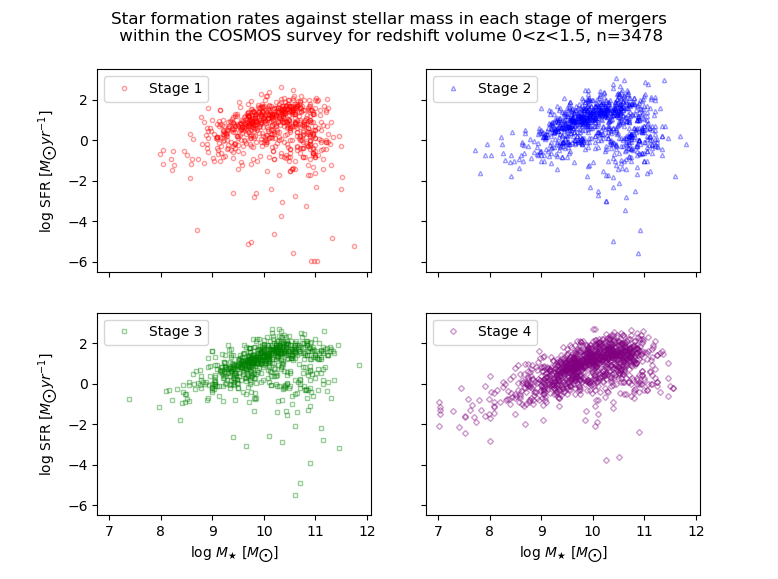
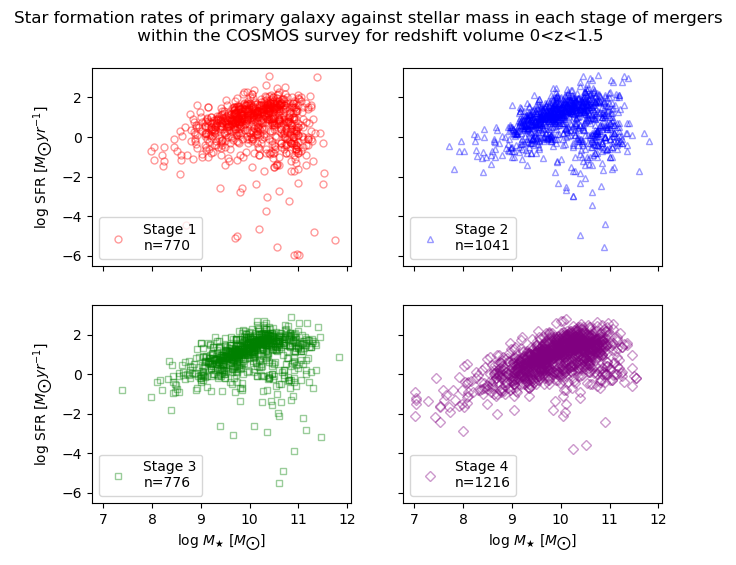
Finalised combined sfr mass plots

diff --git a/plots/plotting_code/main_plots/sfr_mass.py b/plots/plotting_code/main_plots/sfr_mass.py
@@ -50,9 +50,11 @@ def data_gather():
 def generate_plot(data, n):
 
     colours = ['red', 'blue', 'green', 'purple']
+    symbols = ['o', '^', 's', 'D']
+
 
     for j in range(0, 4):
-        plt.errorbar(data[j][0], data[j][1], xerr=data[j][2], yerr=data[j][3], fmt='o', c=colours[j], markersize=1, ecolor='black', elinewidth=1, label=f'Stage {j+1}')
+        plt.errorbar(data[j][0], data[j][1], fmt=symbols[j], c=colours[j], alpha=0.4, fillstyle='none', markersize=5, ecolor='black', elinewidth=1, label=f'Stage {j+1}')
         # plt.scatter(mass_med, sfr_med, s=5, c=colours[j], label=f'Stage {j+1}')
     
     plt.title('Star formation rates in each stage of mergers within the COSMOS survey')
@@ -66,35 +68,35 @@ def generate_plot_z_limit(data):
 
     plt_data = []
     for i in data:
-        plt_data.append([i[0], i[1]])
+        plt_data.append([i[0], i[1]])  # creates list containing only
 
     colours = ['red', 'blue', 'green', 'purple']
     symbols = ['o', '^', 's', 'D']
 
     ms = 5
     ax1 = plt.subplot(221)
-    plt.plot(plt_data[0][0], plt_data[0][1], linestyle='', ms=ms, marker=symbols[0], alpha=0.4, fillstyle='none' ,c=colours[0], label=f'Stage {1}, n={plt_data[0][0]}')
+    plt.plot(data[0][0], data[0][1], linestyle='', ms=ms, marker=symbols[0], alpha=0.4, fillstyle='none' ,c=colours[0], label=f'Stage {1}\nn={len(data[0][0])}')
     plt.ylabel(r'log SFR [$M_{\bigodot} yr^{-1}]$')
     plt.tick_params('x', labelbottom=False)
-    plt.legend()
+    plt.legend(loc='lower left')
 
     ax2 = plt.subplot(222, sharex=ax1, sharey=ax1)
-    plt.plot(plt_data[1][0], plt_data[1][1], ms=ms, linestyle='', marker=symbols[1], alpha=0.4, fillstyle='none' ,c=colours[1], label=f'Stage {2}, n={plt_data[1][0]}')
+    plt.plot(data[1][0], data[1][1], ms=ms, linestyle='', marker=symbols[1], alpha=0.4, fillstyle='none' ,c=colours[1], label=f'Stage {2}\nn={len(data[1][0])}')
     plt.tick_params('y', labelleft=False)
     plt.tick_params('x', labelbottom=False)
-    plt.legend()
+    plt.legend(loc='lower left')
 
     ax3 = plt.subplot(223, sharex=ax1, sharey=ax1)
-    plt.plot(plt_data[2][0], plt_data[2][1], ms=ms, linestyle='', marker=symbols[2], alpha=0.4, fillstyle='none' ,c=colours[2], label=f'Stage {3}, n={plt_data[2][0]}')
+    plt.plot(data[2][0], data[2][1], ms=ms, linestyle='', marker=symbols[2], alpha=0.4, fillstyle='none' ,c=colours[2], label=f'Stage {3}\nn={len(data[2][0])}')
     plt.xlabel(r'log $M_{\bigstar}$ [$M_{\bigodot}$]')
     plt.ylabel(r'log SFR [$M_{\bigodot} yr^{-1}]$')
-    plt.legend()
+    plt.legend(loc='lower left')
 
     ax4 = plt.subplot(224, sharex=ax1, sharey=ax1)
-    plt.plot(plt_data[3][0], plt_data[3][1], ms=ms, linestyle='', marker=symbols[3], alpha=0.4, fillstyle='none' ,c=colours[3], label=f'Stage {4}, n={plt_data[3][0]}')
+    plt.plot(data[3][0], data[3][1], ms=ms, linestyle='', marker=symbols[3], alpha=0.4, fillstyle='none' ,c=colours[3], label=f'Stage {4}\nn={len(data[3][0])}')
     plt.xlabel(r'log $M_{\bigstar}$ [$M_{\bigodot}$]')
     plt.tick_params('y', labelleft=False)
-    plt.legend()
+    plt.legend(loc='lower left')
 
     plt.suptitle('Star formation rates of primary galaxy against stellar mass in each stage of mergers\n within the COSMOS survey for redshift volume 0<z<1.5')
     plt.ylim(-6.5, 3.5)
@@ -148,8 +150,8 @@ num = len(raw_data)
 
 plot_data = generate_variables(raw_data)
 
-# generate_plot(plot_data, num)
+generate_plot(plot_data, num)  # plots with all stages on same graph
 
 plot_data = generate_variables(raw_data, isFiltering = True, z_lim=1.5)  # redefines plot_data to have the filtered values
-generate_plot_z_limit(plot_data)
+# generate_plot_z_limit(plot_data)  # generates 4 subplots, one for each stage
 
